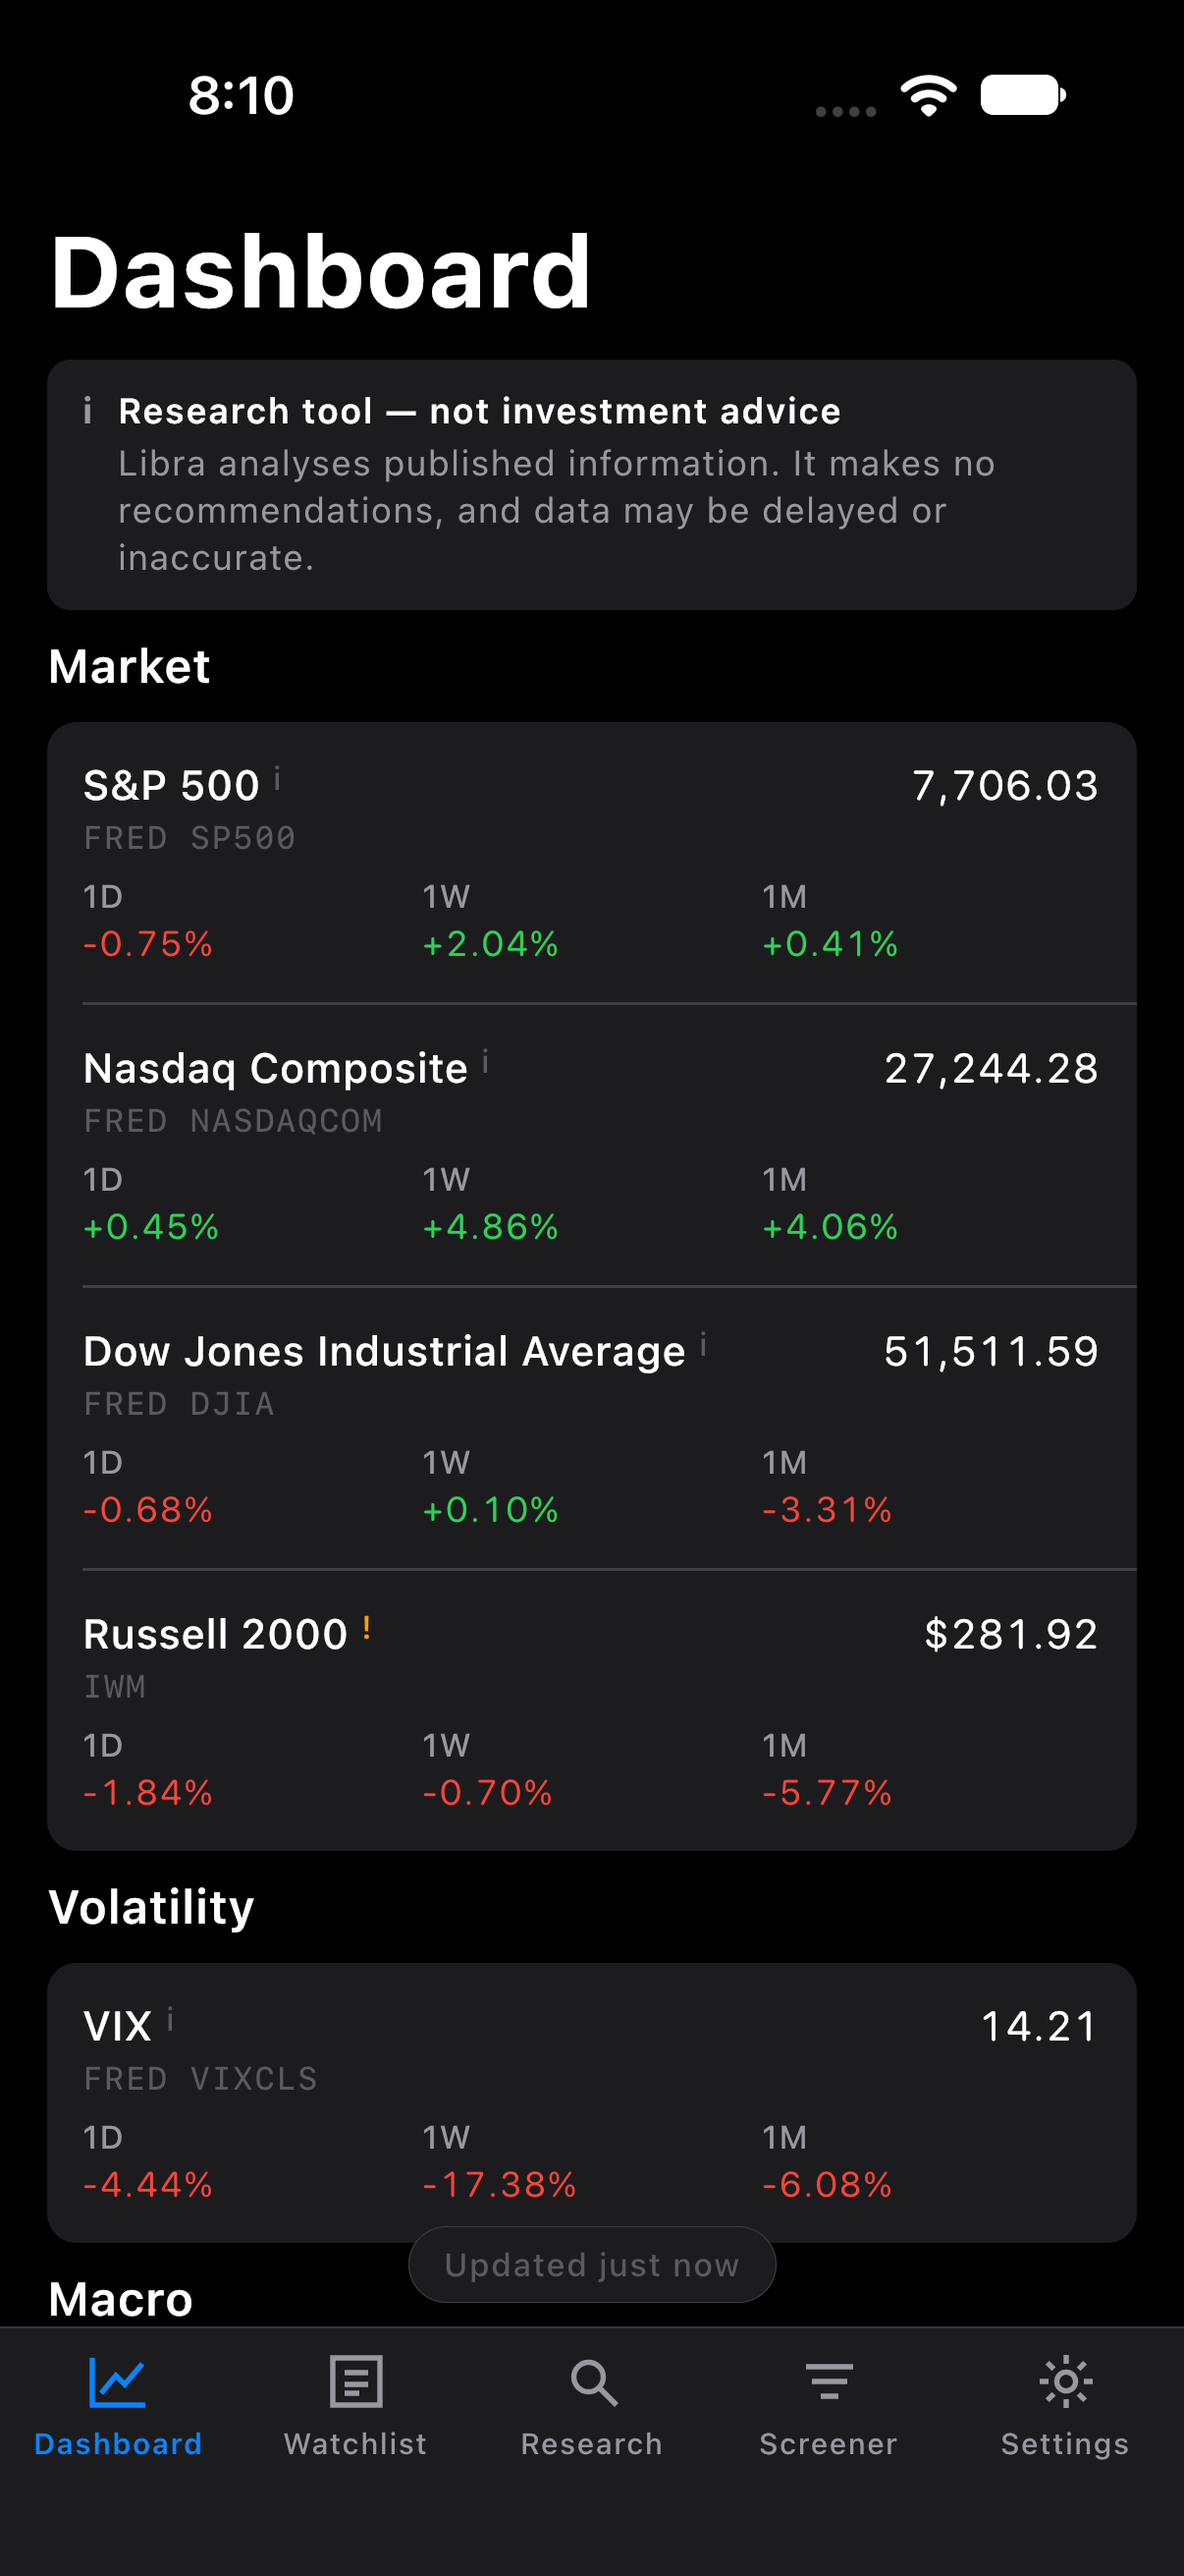
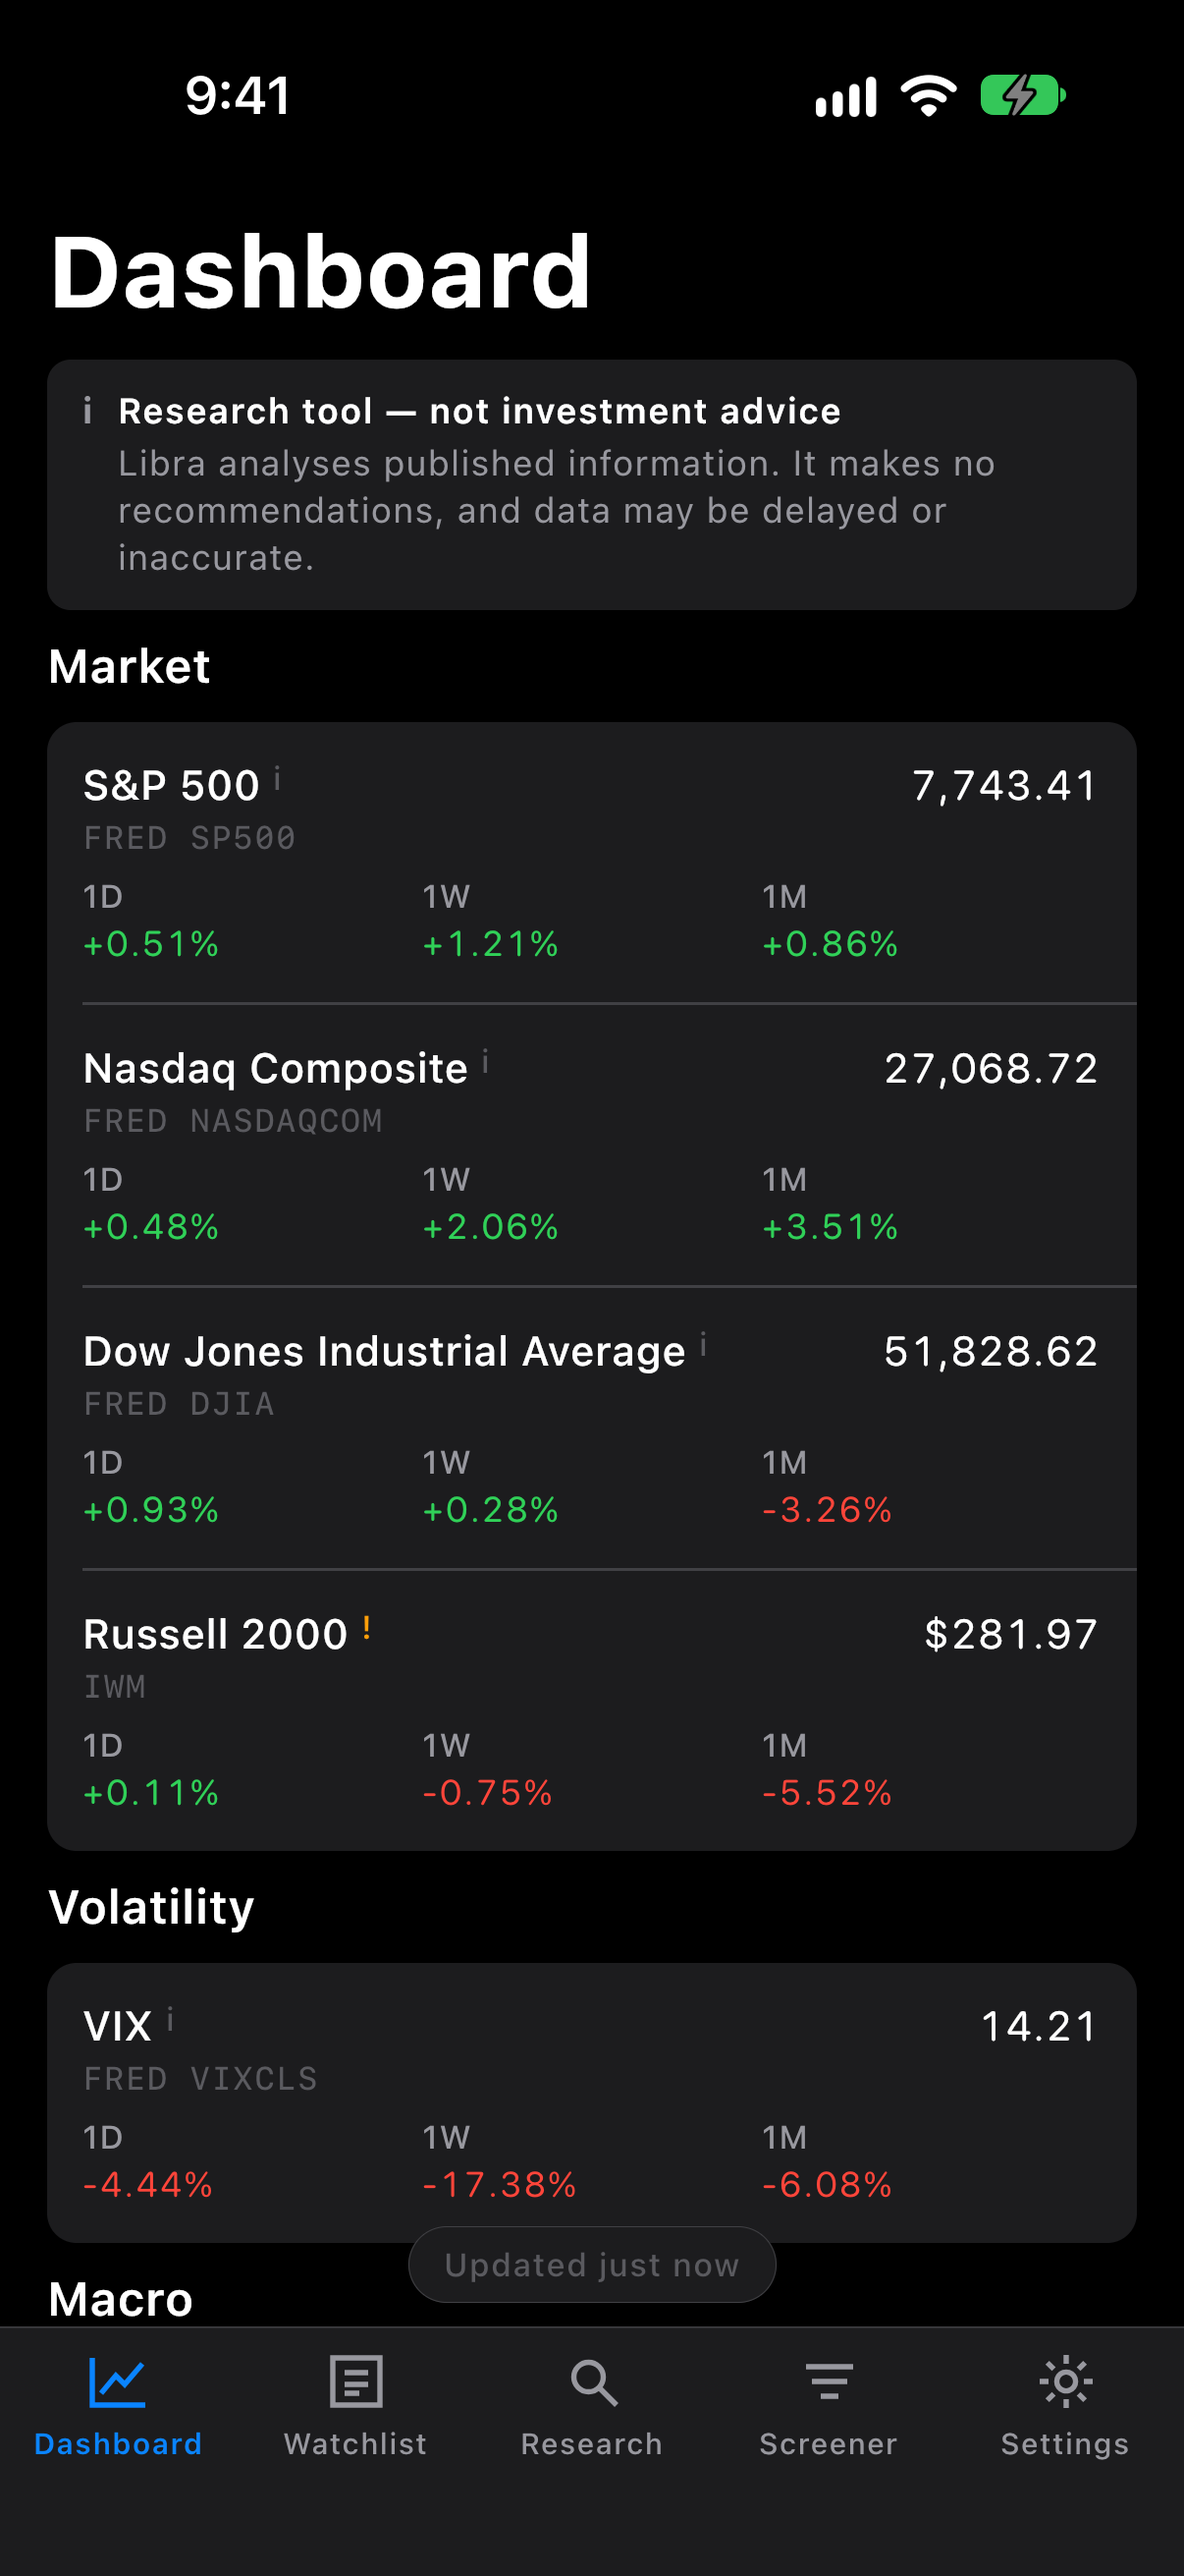
Retake the reference screenshots and give the README a front page
Fresh light and dark screenshots on iOS and Android from main, and a README
that opens with them, the disclaimer, and what is new since the Swift app.

diff --git a/README.md b/README.md
@@ -1,13 +1,70 @@
-# Libra — Kotlin Multiplatform
+# Libra
 
-Port of the SwiftUI app on the `swift-app` branch to Kotlin Multiplatform + Compose
-Multiplatform. The port is complete. [PLAN.md](PLAN.md) is the plan being
-worked now: UI/UX and general improvements. The finished plans before it are in
-`docs/`: [PORT_PLAN.md](docs/PORT_PLAN.md), kept because `KNOWN_ISSUES.md` cites
-its section numbers, then `MAINTENANCE_PLAN.md` and `LOOK_PLAN.md`.
+An equity research tool for iOS and Android that answers *what changed, why,
+and how unusual is it*, for a small number of companies you actually follow.
+Built with Kotlin Multiplatform and Compose Multiplatform: one codebase, two
+native apps.
+
+<p align="center">
+  <img src="docs/refresh/light-1-dashboard.png" width="200" alt="Dashboard on iOS: index levels from FRED, sector tiles and macro readings">
+  <img src="docs/refresh/light-6-security.png" width="200" alt="NVDA on iOS: hero price, range bars, and a one-year chart with its summary strip">
+  <img src="docs/refresh/light-2-watchlist.png" width="200" alt="Watchlist on iOS: rows with sparklines and change pills">
+  <img src="docs/refresh/light-7-benchmark.png" width="200" alt="S&P 500 benchmark page on iOS">
+</p>
+<p align="center">
+  <img src="docs/refresh/android-dark-1-dashboard.png" width="200" alt="Dashboard on Android, dark">
+  <img src="docs/refresh/android-dark-6-security.png" width="200" alt="Security page on Android, dark">
+  <img src="docs/refresh/android-dark-2-watchlist.png" width="200" alt="Watchlist on Android, dark">
+  <img src="docs/refresh/android-dark-3-research.png" width="200" alt="Research on Android, dark: detected changes, each with its arithmetic">
+</p>
+
+<p align="center"><sub>Every screen in light and dark, on both platforms, is in <a href="docs/refresh/"><code>docs/refresh/</code></a>.</sub></p>
+
+> **Educational and informational purposes only.** Libra is a research tool.
+> It is **not investment advice**, not a recommendation to buy or sell any
+> security, and carries **no warranty as to the accuracy, completeness or
+> timeliness of any data shown**. All data comes from third-party providers and
+> may be delayed, incomplete or wrong. Do your own research and consult a
+> licensed professional.
+
+Libra started as a SwiftUI app. That version is archived on the
+[`swift-app`](../../tree/swift-app) branch, and its README's *Design decisions*
+section still describes this app: every calculation was ported and checked
+against it. The principles hold here too: no overall score, no rating, no
+recommendation and no AI anywhere in the numbers.
+
+## What's new since the Swift app
+
+- **Android.** The same app on Android, from the same code as iOS.
+- **Dark mode and Libra's own palette.** Neutral near-black on near-white, with
+  colour kept for a gain, a loss or a caution. SF Pro and SF Pro Rounded on iOS;
+  Inter, Nunito and JetBrains Mono bundled on Android.
+- **Charts that say what the line did.** A summary strip above each chart with
+  the move over the range, the line coloured by direction against the
+  window's first close, a rule at the starting close, press-and-drag to scrub
+  (with a light haptic on each step), and a range picker whose indicator slides.
+- **A tighter stats block.** Day range and 52-week range as bars with a marker at
+  the current price, and market cap, open, beta and average volume in a compact
+  grid.
+- **Hero price** on the security and benchmark pages, rolling to each new value.
+- **Watchlist.** A one-month sparkline and a change pill on every row, swipe to
+  remove, a long-press menu to open or remove, and one tap to add starter
+  symbols to an empty list.
+- **Pull to refresh** on the Dashboard, Watchlist and security pages.
+- **Loading and motion.** Placeholder shapes on first load in place of spinners,
+  crossfades between screens, and Reduce Motion respected throughout.
+- **A faster Dashboard.** Each group of rows appears as soon as its data lands,
+  and the rows survive switching tabs instead of reloading.
+- **The arithmetic re-checked.** Every calculation was audited against worked
+  answers; what changed is under "Calculations" in
+  [KNOWN_ISSUES.md](KNOWN_ISSUES.md).
+
+## Working on it
+
+[RESUME.md](RESUME.md) says where the work stands, and
 [KNOWN_ISSUES.md](KNOWN_ISSUES.md) holds every deviation from the Swift
-original, and [RESUME.md](RESUME.md) says where the work stands. The Swift app
-is the reference for every ported file.
+original. [PLAN.md](PLAN.md), the UI/UX plan, is complete; the plans before it
+are indexed in [docs/README.md](docs/README.md).
 
 ## Layout
 
@@ -125,3 +182,16 @@ adb shell am start -n com.tylerabitbol.libra/.MainActivity \
 result to the log; on iOS that is the only way to verify the Keychain, because
 a test bundle has no entitlements and every Keychain call in one fails before
 anything else is evaluated.
+
+## Data sources and notices
+
+This product uses the FRED® API but is not endorsed or certified by the Federal
+Reserve Bank of St. Louis.
+
+Market and fundamental data are supplied by Finnhub, Tiingo, Alpaca, FRED and
+SEC EDGAR under each reader's own account and each provider's own terms. This
+repository contains no licensed market data.
+
+## Licence
+
+MIT, see [LICENSE](LICENSE).

diff --git a/docs/refresh/README.md b/docs/refresh/README.md
@@ -1,10 +1,12 @@
-# Refresh screenshots
+# Reference screenshots
 
-`PLAN.md` Stage 5.3, taken 2026-09-23 against live data. There are light and
-dark sets for each platform. Each covers the five tabs, then the security page
-(`-LibraOpenSymbol AAPL`) and the S&P 500 benchmark page.
+Retaken 2026-09-26 from `main` against live data, after the Dashboard load fix.
+The first set was taken for `PLAN.md` Stage 5.3 on 2026-09-23. There are light
+and dark sets for each platform. Each covers the five tabs, then a security page
+and the S&P 500 benchmark page. The watchlist holds AAPL, COST and NVDA.
 
-- `light-*`, `dark-*`: iPhone 18 Pro simulator, iOS 27.
-- `android-light-*`, `android-dark-*`: the `medium_phone` emulator.
+- `light-*`, `dark-*`: iPhone 18 Pro simulator, iOS 27. The security page is NVDA.
+- `android-light-*`, `android-dark-*`: the `medium_phone` emulator. The security
+  page is AAPL (`-LibraOpenSymbol AAPL`).
 
 Not captured: the add-security sheet, which would be the third pushed screen.
